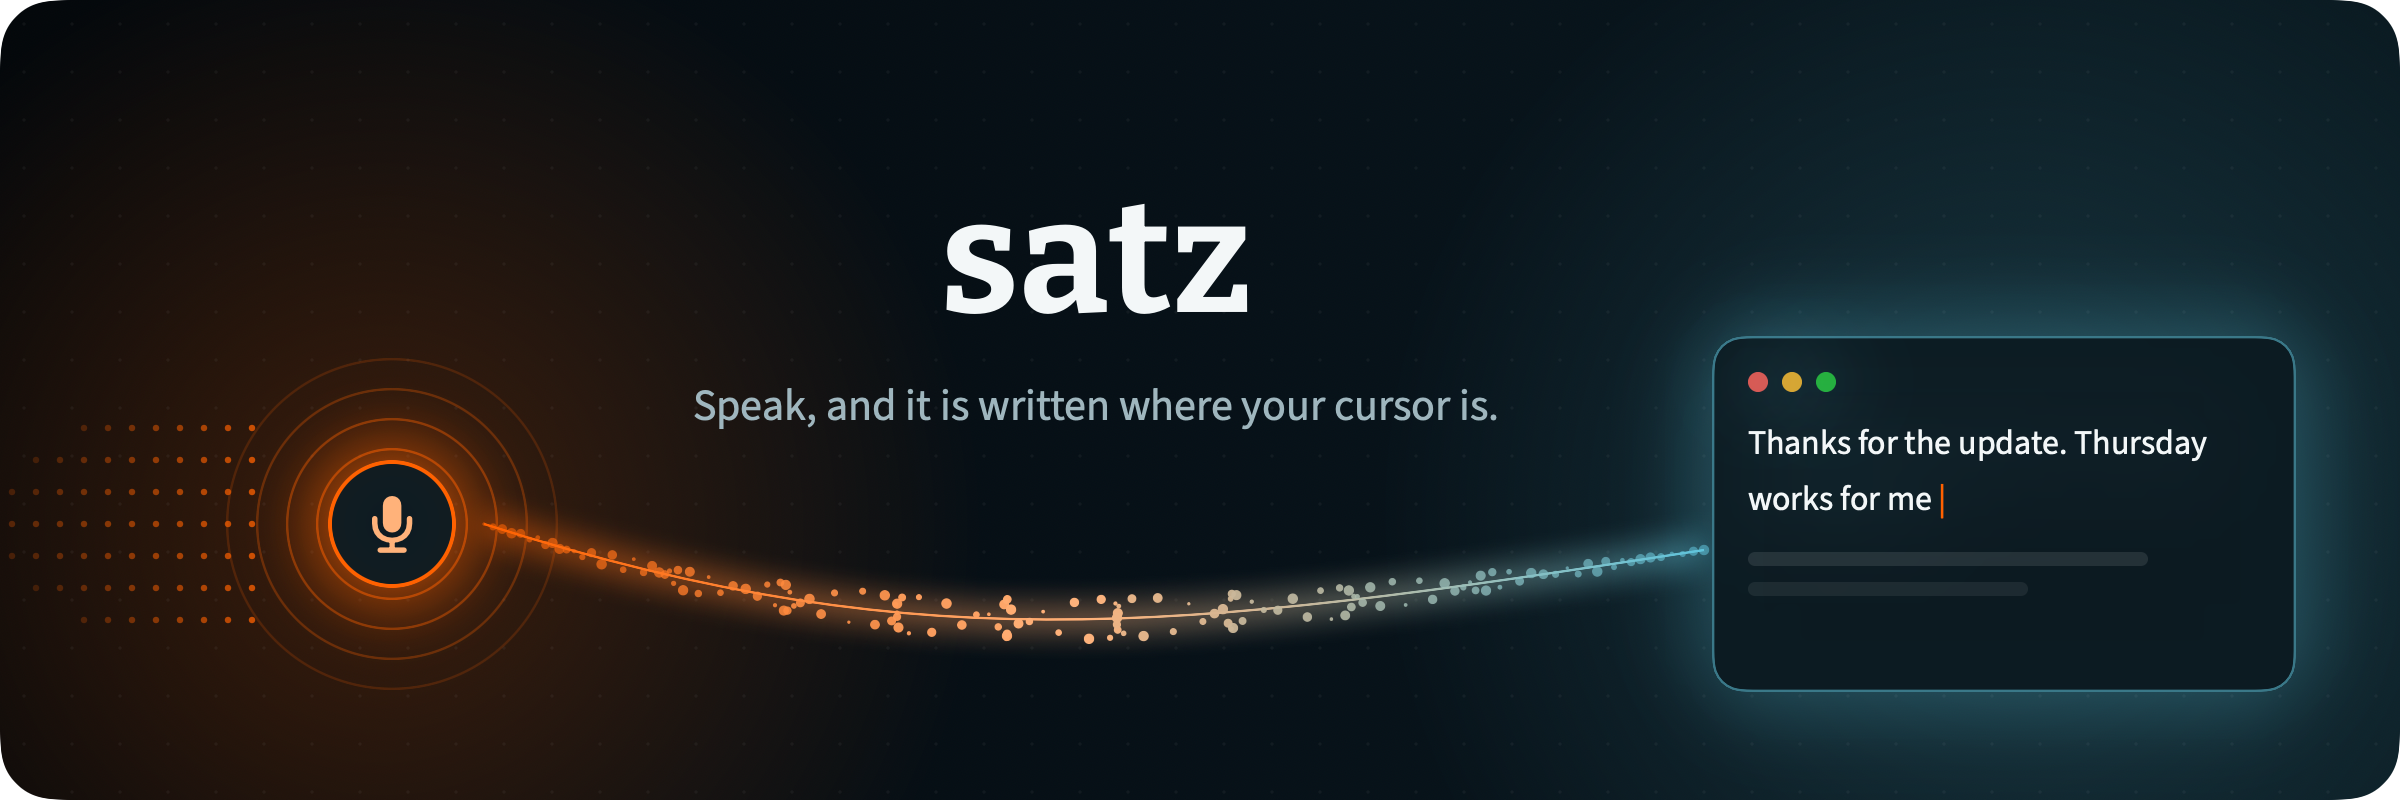
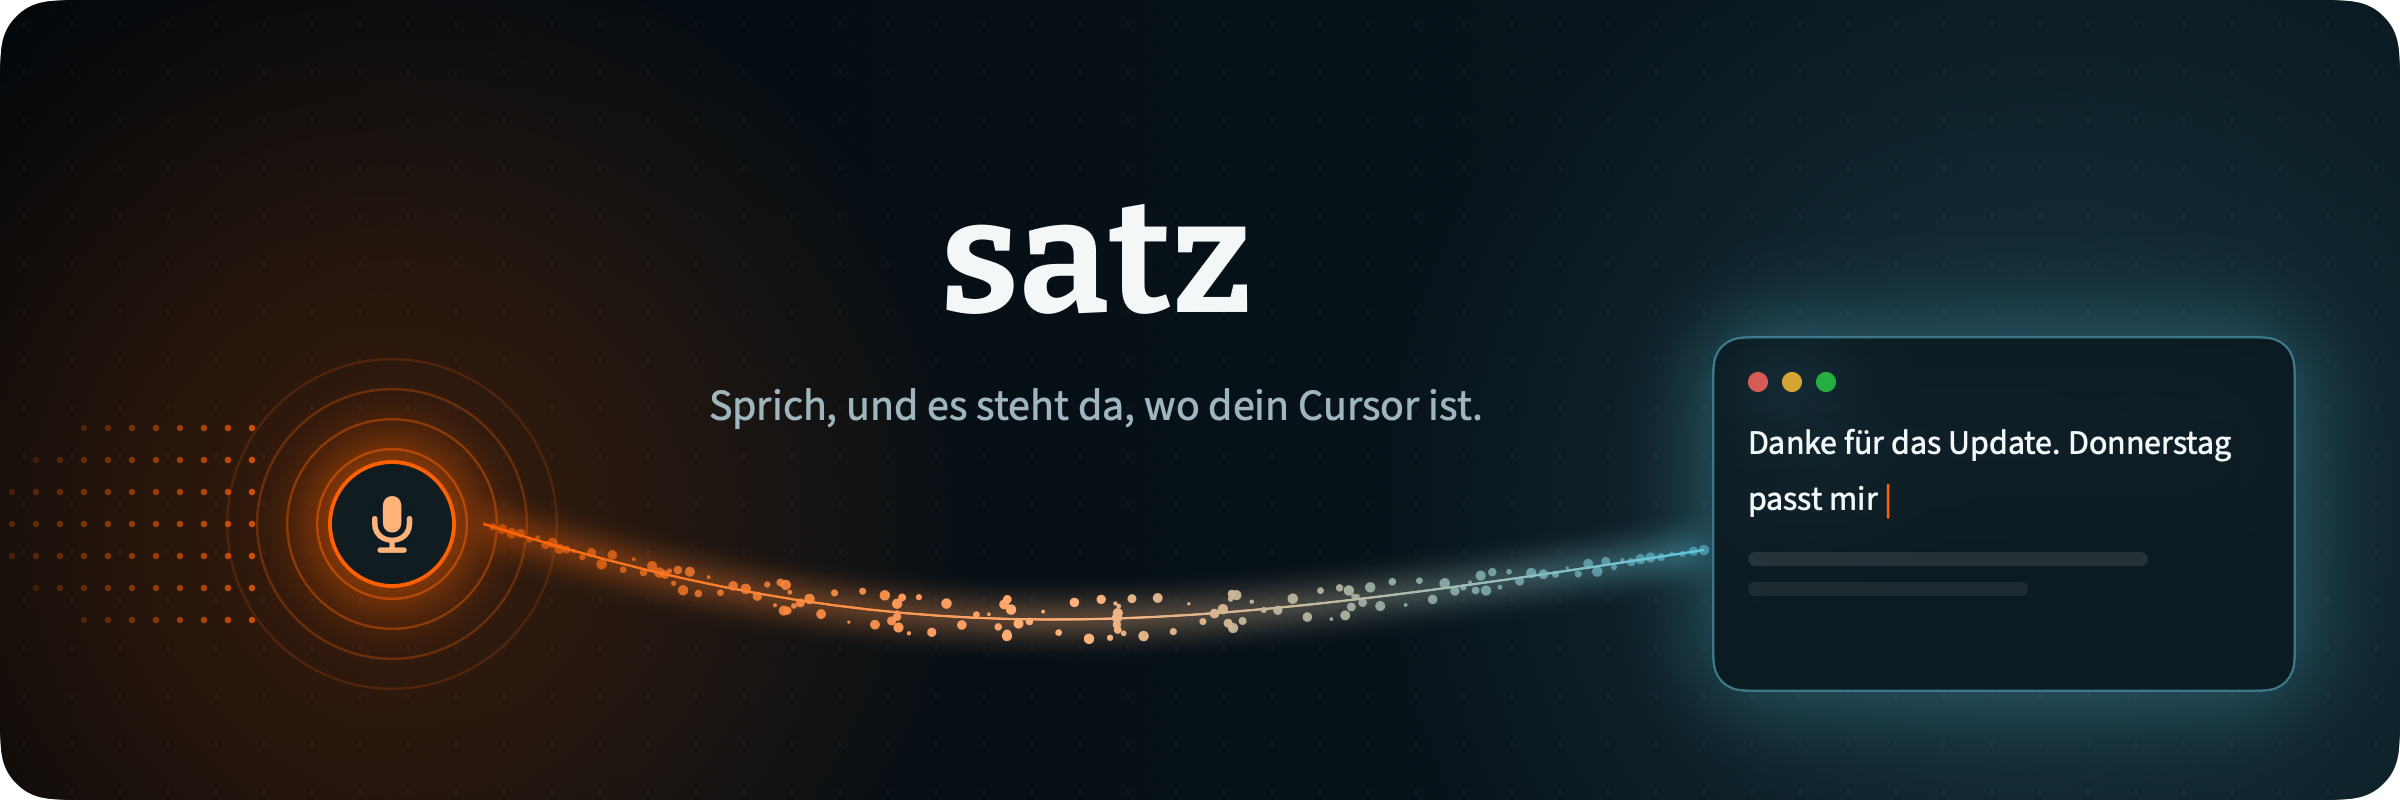
Render the README pictures in German
The README is German now, so the hero, the card and the menu show German
sentences, the menu names the microphone the same way the settings picture
does, and the showcase sits on the app's sand, the ground of dpa.plus/satz.

Changed region(s): [[0.7188, 0.5312, 0.9375, 0.6562], [0.2812, 0.4688, 0.625, 0.5312]]

diff --git a/Sources/SatzMac/Develop/SnapshotRenderer.swift b/Sources/SatzMac/Develop/SnapshotRenderer.swift
@@ -96,20 +96,21 @@ enum SnapshotRenderer {
         try png(of: icons).write(to: folder.appendingPathComponent("icons.png"))
     }
 
-    /// The README's picture: the card while talking, and the menu with what
-    /// was dictated. In English and made up, never anyone's real text.
+    /// The README's picture, also on dpa.plus/satz: the card while talking,
+    /// and the menu with what was dictated. In German, like the README, and
+    /// made up, never anyone's real text.
     static func writeShowcase(to path: String) throws {
-        Language.current = .english
+        Language.current = .german
         AppTheme.current = .dpa
         let history = History()
         let base = Date(timeIntervalSince1970: 1_791_000_000)
-        history.add("The test is red, please don't merge yet.", app: "Slack", pasted: true, at: base)
-        history.add("Let's move the call with Lena to Thursday at two.", app: "Mail", pasted: true, at: base + 600)
-        history.add("Write a function that reads every invoice in the Accounting folder and adds up the totals per customer.",
+        history.add("Der Test ist rot, bitte noch nicht mergen.", app: "Slack", pasted: true, at: base)
+        history.add("Lass uns den Call mit Lena auf Donnerstag um zwei verschieben.", app: "Mail", pasted: true, at: base + 600)
+        history.add("Schreib mir eine Funktion, die alle Rechnungen aus dem Ordner Buchhaltung liest und die Beträge pro Kunde summiert.",
                     app: "Claude", pasted: true, at: base + 1200)
         let sheet = HStack(alignment: .center, spacing: 40) {
             VStack(alignment: .trailing, spacing: 28) {
-                card(.listening, text: "Thanks for the update. Thursday at two works for me, and I'll bring the slides. ", marker: true)
+                card(.listening, text: "Danke für das Update. Donnerstag um zwei passt mir, ich bringe die Folien mit. ", marker: true)
                 card(.listening, marker: true)
             }
             PopoverView(history: history, discarded: Discarded(), setup: Setup(hasKey: true, microphone: .allowed, canPaste: true),
@@ -118,8 +119,9 @@ enum SnapshotRenderer {
         }
         .padding(.horizontal, 56)
         .padding(.vertical, 44)
-        // Rounded like the hero above it in the README.
-        .background(Color(hex: 0xE9DDD2), in: RoundedRectangle(cornerRadius: 32, style: .continuous))
+        // Rounded like the hero above it in the README, in the sand of the
+        // app and of dpa.plus, where it sits on that same sand.
+        .background(Color(hex: 0xFFEADE), in: RoundedRectangle(cornerRadius: 32, style: .continuous))
         try png(of: sheet.environment(\.isSnapshot, true)).write(to: URL(fileURLWithPath: path))
     }
 

diff --git a/Sources/SatzMac/Develop/HeroRenderer.swift b/Sources/SatzMac/Develop/HeroRenderer.swift
@@ -50,7 +50,7 @@ private struct StreamBanner: View {
                 Text("satz")
                     .font(Typography.display(80, .bold))
                     .foregroundStyle(ink)
-                Text("Speak, and it is written where your cursor is.")
+                Text("Sprich, und es steht da, wo dein Cursor ist.")
                     .font(Typography.text(22))
                     .foregroundStyle(muted)
             }
@@ -176,7 +176,7 @@ private struct TextWindow: View {
                     Circle().fill(Color(hex: hex).opacity(0.85)).frame(width: 10, height: 10)
                 }
             }
-            (Text("Thanks for the update. Thursday works for me")
+            (Text("Danke für das Update. Donnerstag passt mir")
                 .foregroundColor(ink)
              + Text(" |").foregroundColor(orange))
                 .font(Typography.text(17))

diff --git a/Sources/SatzMac/Popover/PopoverView.swift b/Sources/SatzMac/Popover/PopoverView.swift
@@ -362,6 +362,7 @@ private struct Footer: View {
     let preferences: Preferences
     let actions: PopoverActions
     @Environment(\.theme) private var theme
+    @Environment(\.isSnapshot) private var isSnapshot
     @State private var devices: [InputDevice] = []
 
     var body: some View {
@@ -417,6 +418,9 @@ private struct Footer: View {
         if let uid = preferences.inputDeviceUID, let device = devices.first(where: { $0.uid == uid }) {
             return device.name
         }
+        // Pictures name the same microphone in either language, not this
+        // Mac's, as the settings window does.
+        if isSnapshot { return de("MacBook Pro-Mikrofon", en: "MacBook Pro Microphone") }
         return InputDevices.systemDefault()?.name ?? de("Mikrofon", en: "Microphone")
     }
 }
